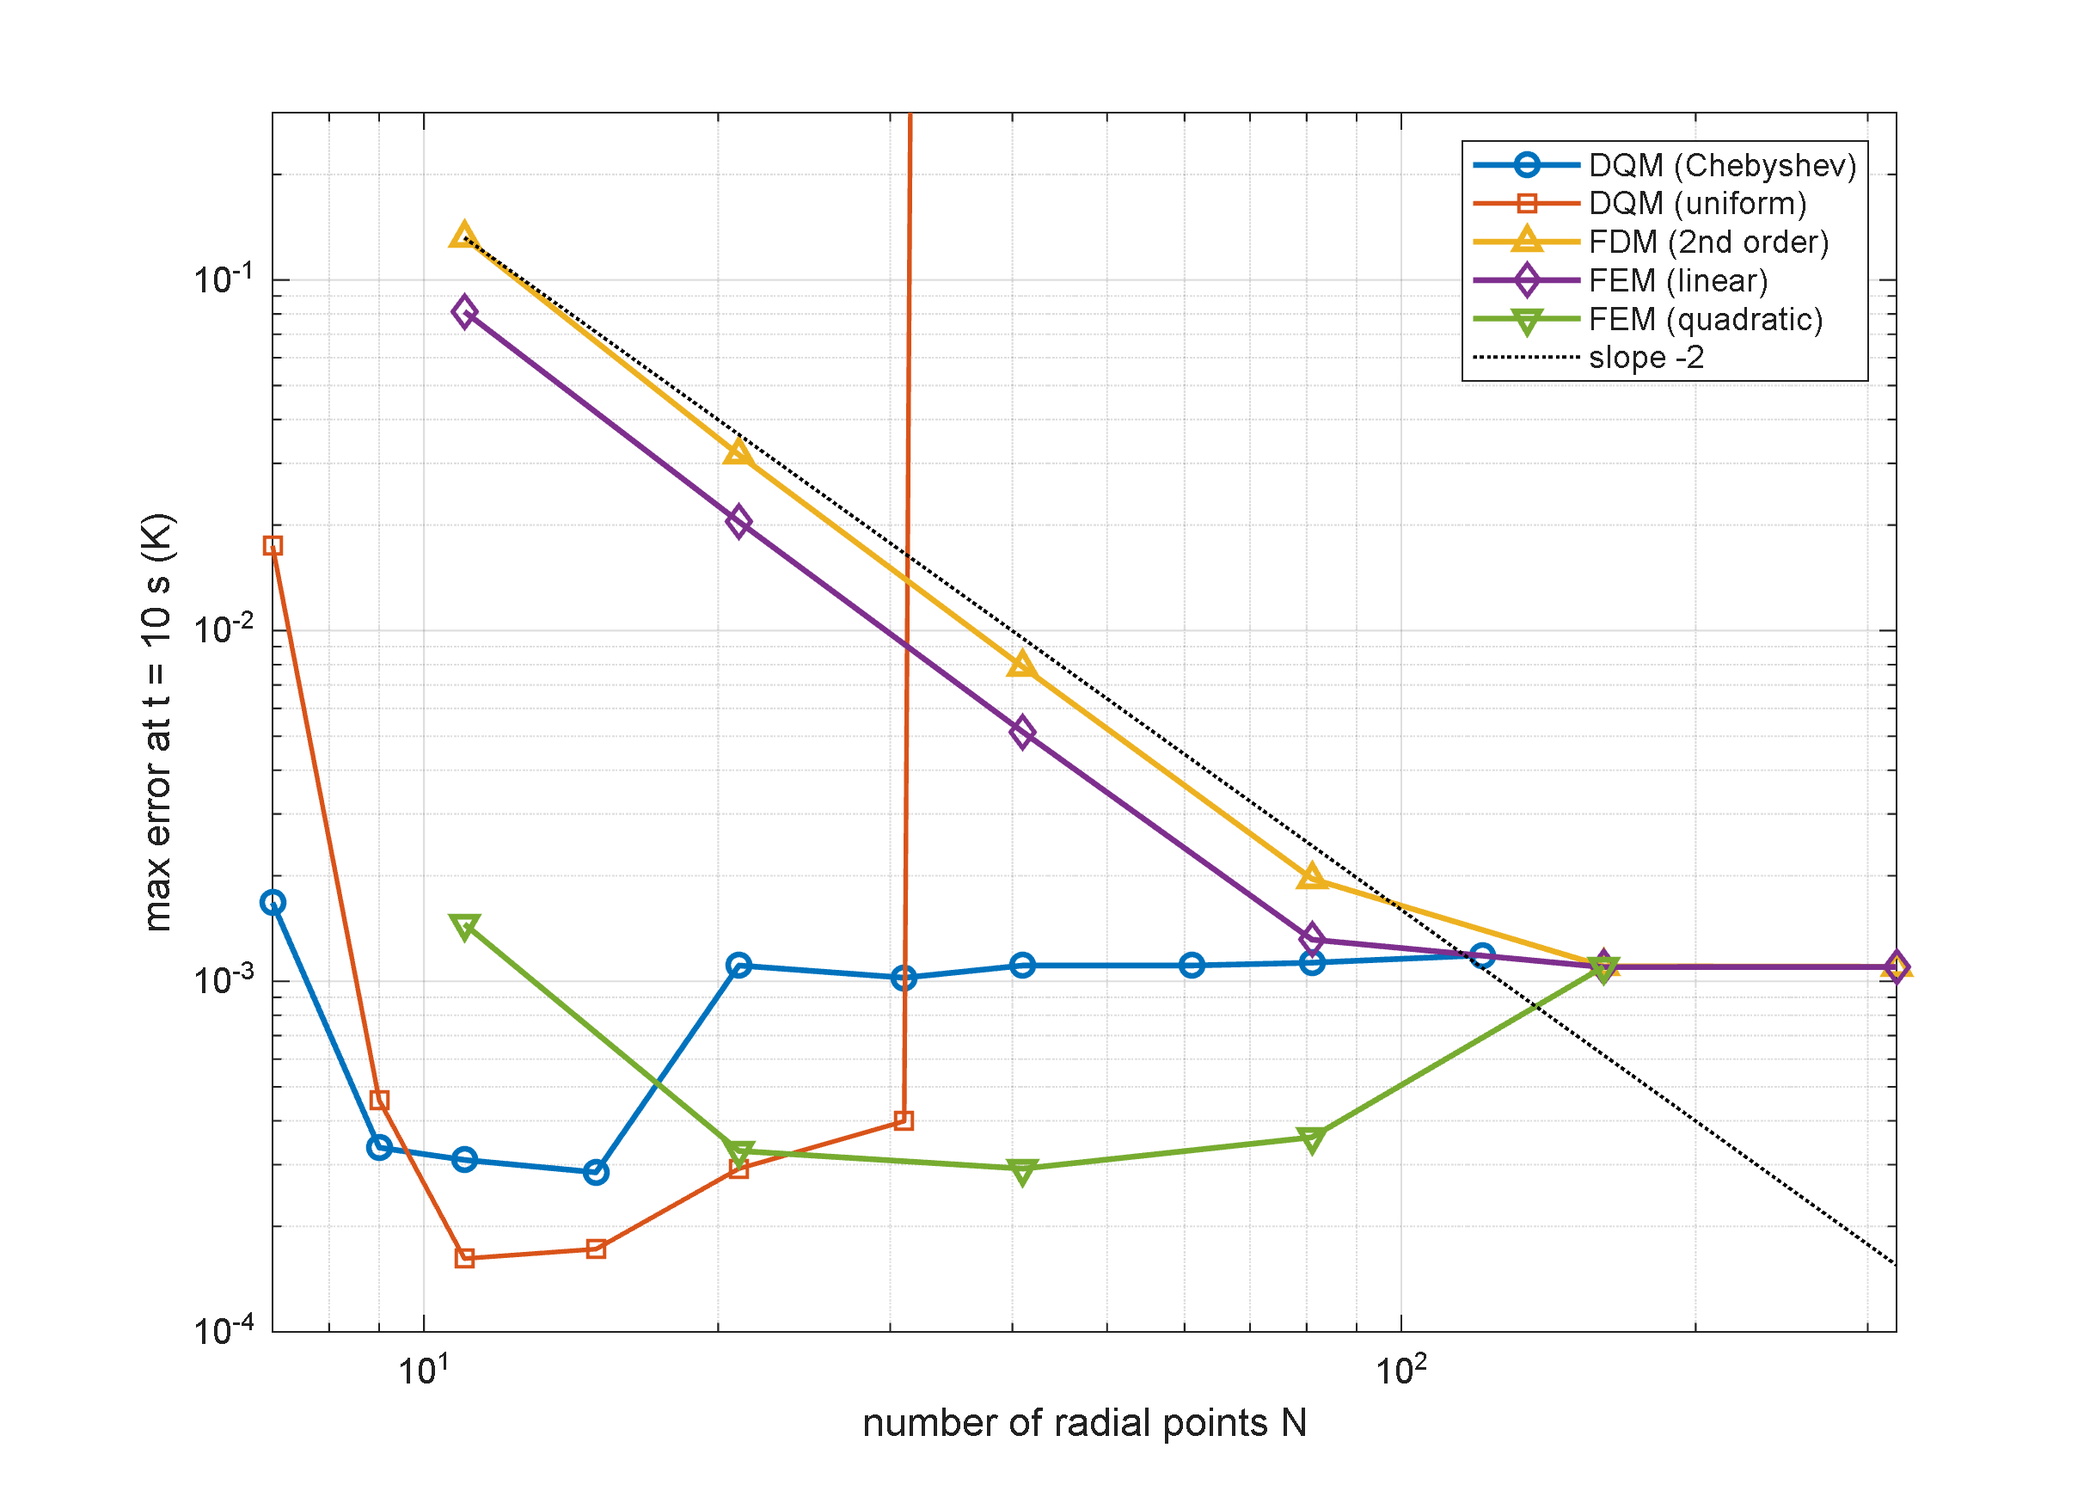
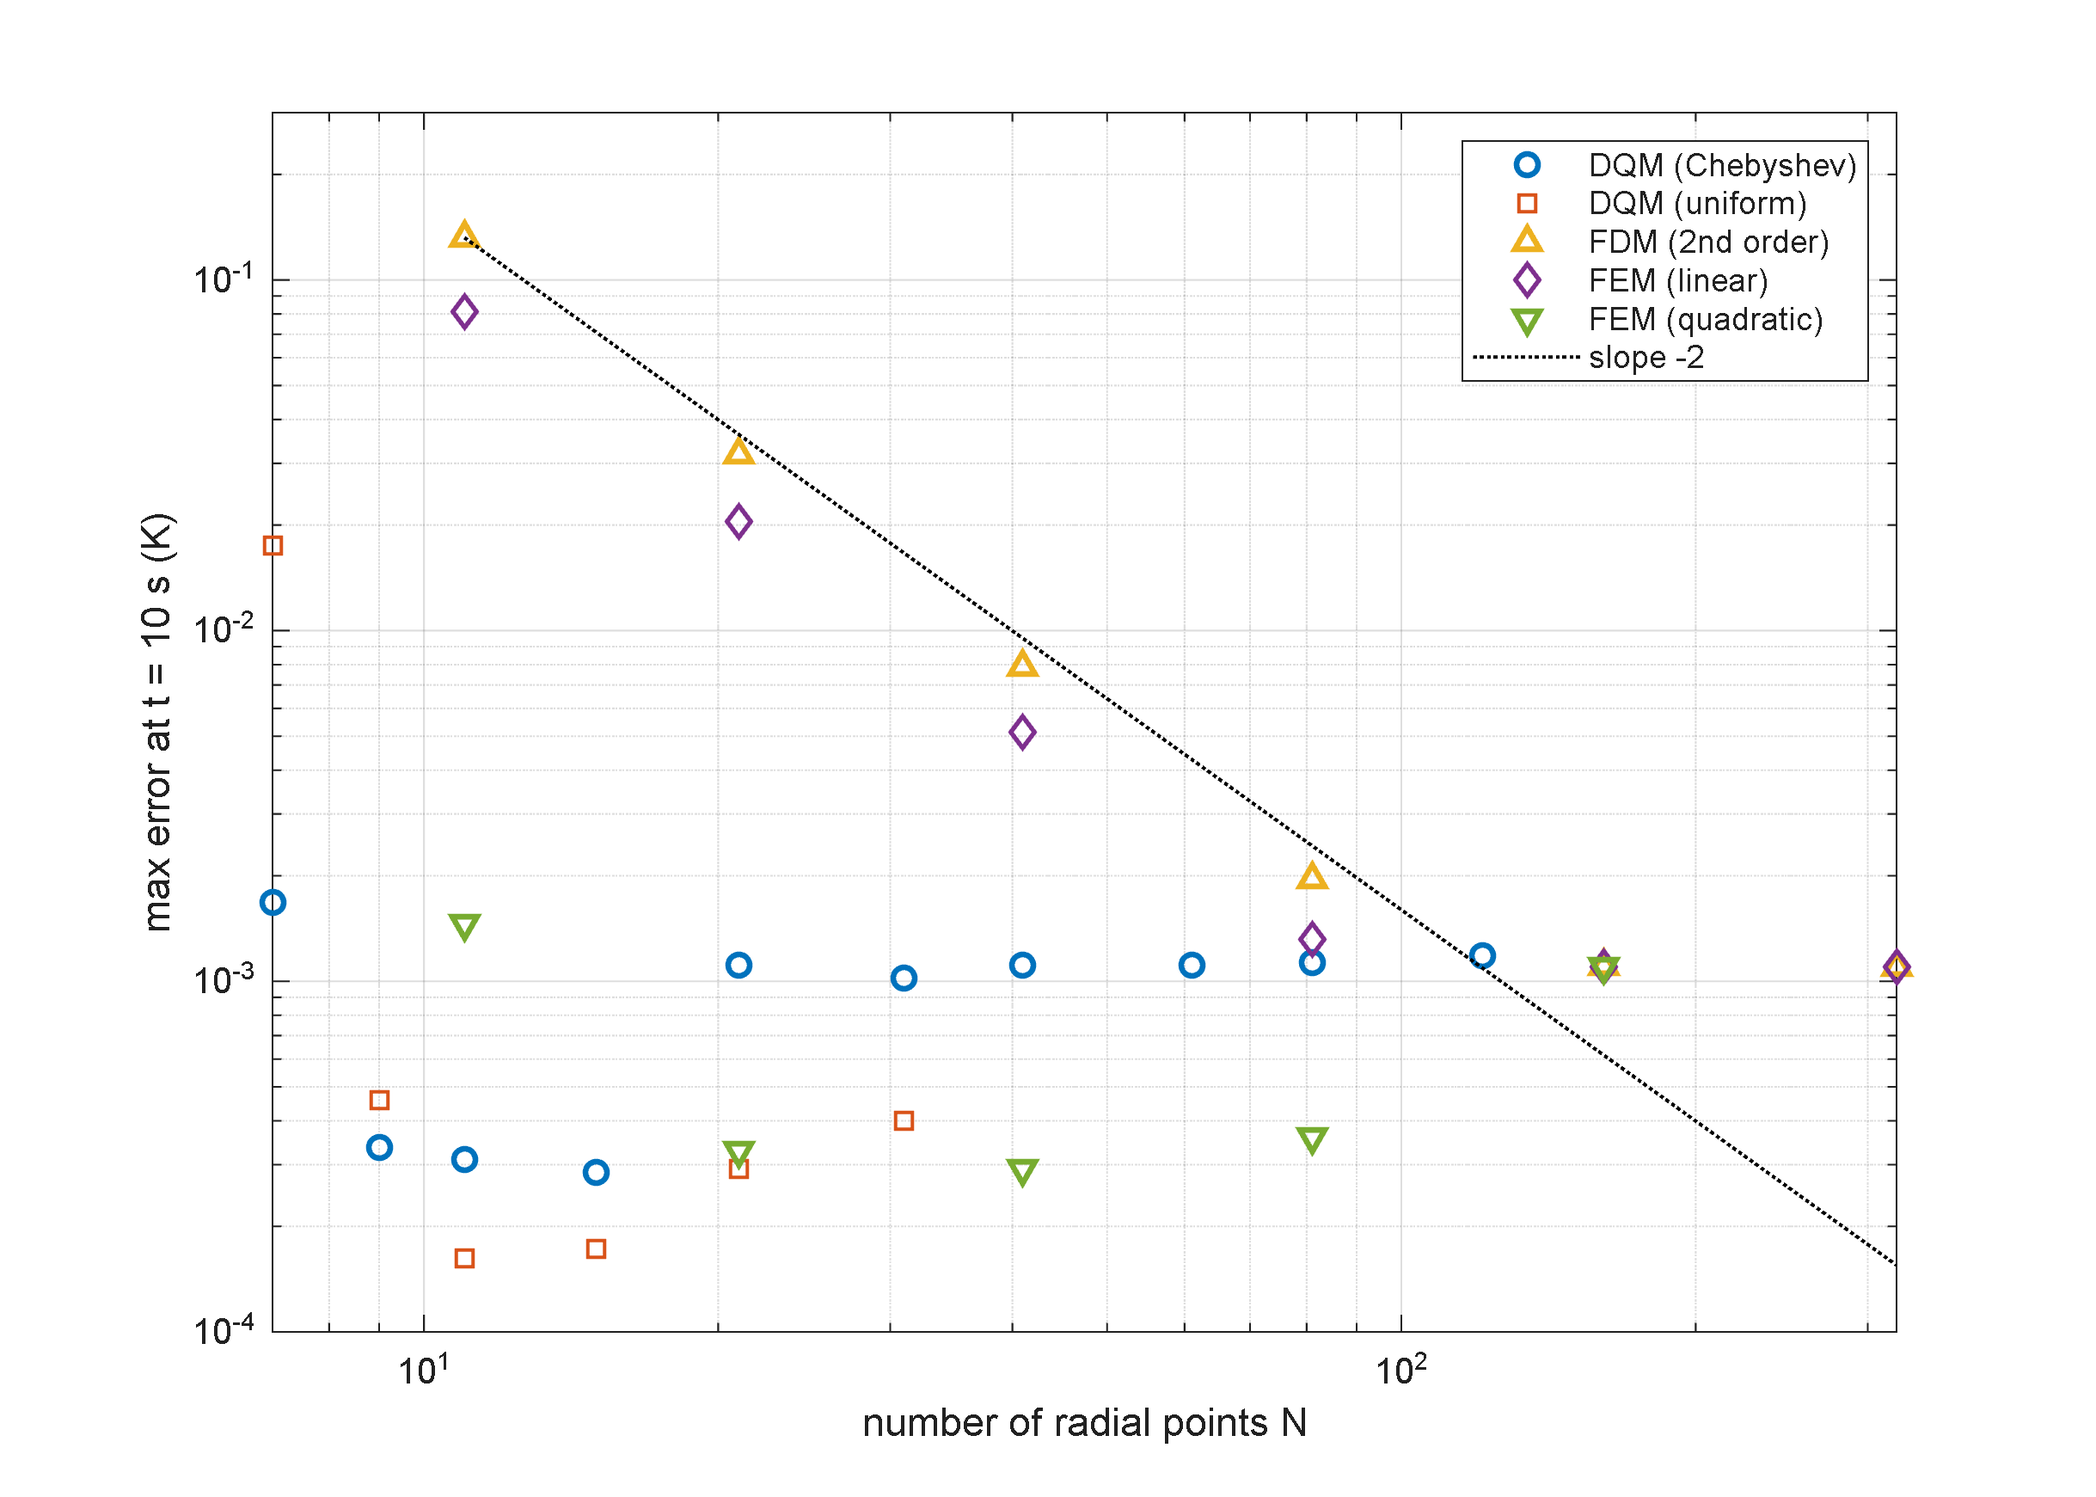
Add T2.5: markers only, no connecting lines
New revision (T2_4 kept frozen), styling only, no numeric change:
removed the connecting lines from all data series, leaving hollow
markers only (slope-2 dotted reference line kept).

diff --git a/claude/code/extensions/claude_T2_5_spatial_methods.m b/claude/code/extensions/claude_T2_5_spatial_methods.m
@@ -1,0 +1,239 @@
+%% ========================================================================
+%  claude_T2_5_spatial_methods.m — SPATIAL DISCRETIZATION COMPARISON (T2.5)
+%  ------------------------------------------------------------------------
+%  Revision of claude_T2_4_spatial_methods.m (T2_4 kept frozen). Change
+%  (author request, figure styling only — no numeric change):
+%    + connecting lines removed from the data series — markers only
+%      (slope-2 dotted reference line kept).
+%  Everything else is unchanged: same DQM node sweep extended to N=201,
+%  same exact Bessel-series reference, same Newmark time march (dt = 0.01 s)
+%  so the measured error at t = 10 s is the SPATIAL error of each method.
+%  Output goes to results_extensions\ (method/theory comparisons are kept
+%  separate from the parametric campaign for the results chapter); this
+%  revision's output supersedes T2_4's on the same filenames.
+%  ========================================================================
+clearvars; clc; close all;
+
+k_th=50; rho_th=8000; c_th=500; kappa=k_th/(rho_th*c_th);
+Ri=0.08; Ro=0.1; hconv=2000; th0=200; t0r=5;
+t_end=10; dtt=0.01; Ntt=round(t_end/dtt);
+
+%% ---- exact solution ----
+b_c = -hconv/(k_th/Ro + hconv*log(Ro/Ri));  a_c = 1 - b_c*log(Ri);
+psi  = @(r) a_c + b_c*log(r);
+geig = @(l) -k_th*l.*(besselj(1,l*Ro).*bessely(0,l*Ri) - bessely(1,l*Ro).*besselj(0,l*Ri)) ...
+          + hconv*(besselj(0,l*Ro).*bessely(0,l*Ri) - bessely(0,l*Ro).*besselj(0,l*Ri));
+Rfun = @(l,r) besselj(0,l*r).*bessely(0,l*Ri) - bessely(0,l*r).*besselj(0,l*Ri);
+lam=zeros(60,1); nf=0; lg=linspace(1,40000,400000); gv=geig(lg);
+for i=1:numel(lg)-1
+    if nf>=60, break; end
+    if gv(i)*gv(i+1)<0, nf=nf+1; lam(nf)=fzero(geig,[lg(i),lg(i+1)]); end
+end
+lam=lam(1:nf); cn=zeros(nf,1);
+for n=1:nf
+    num=integral(@(r) psi(r).*Rfun(lam(n),r).*r, Ri,Ro,'AbsTol',1e-12,'RelTol',1e-10);
+    den=integral(@(r) Rfun(lam(n),r).^2.*r,      Ri,Ro,'AbsTol',1e-12,'RelTol',1e-10);
+    cn(n)=num/den;
+end
+bD=1/t0r;
+th_exact = @(r,t) th0*(1-exp(-t/t0r)).*psi(r) - ...
+    sum((cn.*Rfun(lam,r)).*(th0*bD*(exp(-bD*t)-exp(-lam.^2*kappa*t))./(lam.^2*kappa-bD)),1);
+
+% physical parameter bundle for the 1-D solver helpers (script-local
+% functions do NOT share the script workspace — pass everything explicitly)
+P = struct('k',k_th,'rhoc',rho_th*c_th,'h',hconv,'th0',th0,'t0r',t0r, ...
+           'dtt',dtt,'Ntt',Ntt,'Ri',Ri,'Ro',Ro);
+
+%% ---- sweeps -------------------------------------------------------------
+fprintf('===== T2.5: SPATIAL METHOD CONVERGENCE incl. FEM (error at t=10 s) =====\n');
+Ns_dqm = [7 9 11 15 21 31 41 61 81 121 161 201];
+err_dqm = nan(size(Ns_dqm)); err_dqu = err_dqm;
+for q = 1:numel(Ns_dqm)
+    N = Ns_dqm(q);
+    % Global-polynomial DQM differentiation matrices become ill-conditioned
+    % at high N (esp. uniform nodes, Runge-type blow-up); guard with
+    % try/catch so one bad N doesn't abort the whole sweep — a failed/NaN
+    % point is itself the informative result (method breaks down there).
+    try
+        rC = Ri + (Ro-Ri)/2*(1-cos(pi*(0:N-1)/(N-1)));  rC = rC(:);   % Chebyshev
+        thxC = arrayfun(@(rr) th_exact(rr, t_end), rC(:).');
+        [A1,A2] = dqw(rC);      err_dqm(q) = run1d(rC, A1, A2, P, thxC);
+    catch ME
+        fprintf('DQM  N=%3d : cheb FAILED (%s)\n', N, ME.message);
+    end
+    try
+        rU = linspace(Ri,Ro,N).';                                     % uniform
+        thxU = arrayfun(@(rr) th_exact(rr, t_end), rU(:).');
+        [B1,B2] = dqw(rU);      err_dqu(q) = run1d(rU, B1, B2, P, thxU);
+    catch ME
+        fprintf('DQM  N=%3d : uniform FAILED (%s)\n', N, ME.message);
+    end
+    fprintf('DQM  N=%3d : cheb err=%.3e   uniform err=%.3e\n', N, err_dqm(q), err_dqu(q));
+end
+Ns_fdm = [11 21 41 81 161 321];
+err_fdm = zeros(size(Ns_fdm));
+for q = 1:numel(Ns_fdm)
+    N = Ns_fdm(q);
+    r = linspace(Ri,Ro,N).';  h = r(2)-r(1);
+    D1 = zeros(N); D2 = zeros(N);
+    for i = 2:N-1
+        D1(i,i-1)=-1/(2*h); D1(i,i+1)=1/(2*h);
+        D2(i,i-1)=1/h^2; D2(i,i)=-2/h^2; D2(i,i+1)=1/h^2;
+    end
+    D1(1,1:3)=[-3 4 -1]/(2*h);  D1(N,N-2:N)=[1 -4 3]/(2*h);   % one-sided
+    thxF = arrayfun(@(rr) th_exact(rr, t_end), r(:).');
+    err_fdm(q) = run1d(r, D1, D2, P, thxF);
+    fprintf('FDM  N=%3d : err=%.3e\n', N, err_fdm(q));
+end
+
+% ---- NEW: FEM sweeps -----------------------------------------------------
+Ns_fe1 = [11 21 41 81 161 321];              % linear elements (N-1 elements)
+err_fe1 = zeros(size(Ns_fe1));
+for q = 1:numel(Ns_fe1)
+    N = Ns_fe1(q);
+    r = linspace(Ri,Ro,N).';
+    [Kf,Cf] = femmat(r, 1, P);
+    thxE = arrayfun(@(rr) th_exact(rr, t_end), r(:).');
+    err_fe1(q) = run1d_mat(Kf, Cf, P, thxE);
+    fprintf('FEM1 N=%3d : err=%.3e\n', N, err_fe1(q));
+end
+Ns_fe2 = [11 21 41 81 161];                  % quadratic (odd N, (N-1)/2 elems)
+err_fe2 = zeros(size(Ns_fe2));
+for q = 1:numel(Ns_fe2)
+    N = Ns_fe2(q);
+    r = linspace(Ri,Ro,N).';
+    [Kf,Cf] = femmat(r, 2, P);
+    thxE = arrayfun(@(rr) th_exact(rr, t_end), r(:).');
+    err_fe2(q) = run1d_mat(Kf, Cf, P, thxE);
+    fprintf('FEM2 N=%3d : err=%.3e\n', N, err_fe2(q));
+end
+
+%% ---- figure -------------------------------------------------------------
+outdir='results_extensions';  fdir=fullfile(outdir,'figures');
+if ~exist(fdir,'dir'), mkdir(fdir); end
+fig = figure('Position',[100 100 780 560],'Color','w');
+% "first edition" palette (MATLAB default color order): blue/red/yellow/purple/green
+cBlue=[0 0.4470 0.7410]; cRed=[0.8500 0.3250 0.0980]; cYel=[0.9290 0.6940 0.1250];
+cPur=[0.4940 0.1840 0.5560]; cGrn=[0.4660 0.6740 0.1880];
+loglog(Ns_dqm, err_dqm, 'o', 'Color',cBlue,'LineWidth',1.6); hold on;
+loglog(Ns_dqm, err_dqu, 's', 'Color',cRed, 'LineWidth',1.3);
+loglog(Ns_fdm, err_fdm, '^', 'Color',cYel, 'LineWidth',1.6);
+loglog(Ns_fe1, err_fe1, 'd', 'Color',cPur, 'LineWidth',1.6);
+loglog(Ns_fe2, err_fe2, 'v', 'Color',cGrn, 'LineWidth',1.6);
+loglog(Ns_fdm, err_fdm(1)*(Ns_fdm(1)./Ns_fdm).^2, 'k:', 'LineWidth',1);
+xlabel('number of radial points N'); ylabel('max error at t = 10 s (K)');
+legend('DQM (Chebyshev)','DQM (uniform)','FDM (2nd order)', ...
+       'FEM (linear)','FEM (quadratic)','slope -2','Location','northeast');
+grid on; box on;
+% cap the y-axis: uniform-node DQM diverges to ~1e47-1e52 beyond N=31
+% (global-polynomial ill-conditioning), which would otherwise flatten
+% every other well-behaved curve into an unreadable line at the bottom.
+ylim([1e-4 3e-1]);
+saveas(fig, fullfile(fdir,'T2_spatial_convergence.fig'));
+print(fig, fullfile(fdir,'T2_spatial_convergence.png'), '-dpng','-r300');
+T = table([Ns_dqm.'; Ns_dqm.'; Ns_fdm.'; Ns_fe1.'; Ns_fe2.'], ...
+    [err_dqm.'; err_dqu.'; err_fdm.'; err_fe1.'; err_fe2.'], ...
+    [repmat("DQM-cheb",numel(Ns_dqm),1); repmat("DQM-unif",numel(Ns_dqm),1); ...
+     repmat("FDM",numel(Ns_fdm),1); repmat("FEM-lin",numel(Ns_fe1),1); ...
+     repmat("FEM-quad",numel(Ns_fe2),1)], ...
+    'VariableNames', {'N','max_err_K','method'});
+writetable(T, fullfile(outdir,'T2_spatial_table.csv'));
+fprintf('Saved %s\\figures\\T2_spatial_convergence + T2_spatial_table.csv\n', outdir);
+
+%% ---- helpers ------------------------------------------------------------
+function err = run1d(r, D1, D2, P, thx)
+    % 1-D radial transient conduction with inner ramp + outer convection.
+    % (unchanged from claude_T2_spatial_methods.m)
+    N = numel(r);
+    K = zeros(N); Cm = zeros(N);
+    for i = 2:N-1
+        K(i,:) = -P.k*( D2(i,:) + D1(i,:)/r(i) );
+        Cm(i,i) = P.rhoc;
+    end
+    K(1,1) = 1;                                     % theta = ramp(t)
+    K(N,:) = P.k*D1(N,:);  K(N,N) = K(N,N) + P.h;   % convection
+    err = march(K, Cm, P, thx);
+end
+
+function err = run1d_mat(K, Cm, P, thx)
+    % same Newmark march for a PRE-ASSEMBLED (weak-form) system.
+    % Inner Dirichlet row is already the constraint row K(1,:)=[1 0...0].
+    err = march(K, Cm, P, thx);
+end
+
+function err = march(K, Cm, P, thx)
+    N = size(K,1);
+    s_row = max(abs([K, (2/P.dtt)*Cm]),[],2); s_row(s_row==0)=1;
+    K = K./s_row; Cm = Cm./s_row; rs1 = 1/s_row(1);
+    a0=1/(0.25*P.dtt^2); a1=0.5/(0.25*P.dtt); a2=1/(0.25*P.dtt); a3=1;
+    a4=1; a5=0; a6=P.dtt*0.5; a7=P.dtt*0.5;
+    Keff = K + a1*Cm;                               % M = 0 (Fourier)
+    x=zeros(N,1); xd=x; xdd=x;
+    [Lf,Uf,pp] = lu(Keff,'vector');
+    for n = 1:P.Ntt
+        t = n*P.dtt;
+        F = zeros(N,1);  F(1) = P.th0*(1-exp(-t/P.t0r))*rs1;
+        rhs = F + Cm*(a1*x + a4*xd + a5*xdd);
+        xn = Uf\(Lf\rhs(pp));
+        xddn = a0*(xn-x) - a2*xd - a3*xdd;
+        xd = xd + a6*xdd + a7*xddn;  x = xn;  xdd = xddn;
+    end
+    err = max(abs(x(2:end-1).' - thx(2:end-1)));
+end
+
+function [K, Cm] = femmat(r, order, P)
+    % Galerkin FEM for  rho*c dth/dt - k (th'' + th'/r) = 0  on [Ri,Ro],
+    % weak form with cylindrical weight r:
+    %   K_ij  = int k Ni' Nj' r dr   (+ h*Ro at outer node)
+    %   Cm_ij = int rho*c Ni Nj r dr
+    % order 1: 2-node linear elements; order 2: 3-node quadratic (N odd).
+    N = numel(r);
+    K = zeros(N); Cm = zeros(N);
+    if order == 1
+        for e = 1:N-1
+            r1=r(e); r2=r(e+1); Le=r2-r1; idx=[e e+1];
+            Ke = P.k*(r1+r2)/(2*Le)*[1 -1; -1 1];
+            Ce = P.rhoc*Le/12*[3*r1+r2, r1+r2; r1+r2, r1+3*r2];
+            K(idx,idx)  = K(idx,idx)  + Ke;
+            Cm(idx,idx) = Cm(idx,idx) + Ce;
+        end
+    else
+        assert(mod(N,2)==1, 'quadratic FEM needs odd N');
+        % 3-point Gauss (exact for the degree-5 integrands here)
+        gp = [-sqrt(3/5) 0 sqrt(3/5)];  gw = [5/9 8/9 5/9];
+        for e = 1:(N-1)/2
+            idx = 2*e-1 : 2*e+1;  re = r(idx);  Le = re(3)-re(1);
+            Ke = zeros(3); Ce = zeros(3);
+            for g = 1:3
+                xi = gp(g);
+                Nsh  = [xi*(xi-1)/2, 1-xi^2, xi*(xi+1)/2];
+                dNxi = [xi-1/2,      -2*xi,  xi+1/2];
+                rg   = re(1) + (xi+1)*Le/2;         % equally spaced nodes
+                dNdr = dNxi*(2/Le);
+                Ke = Ke + gw(g)*P.k    *(dNdr.'*dNdr)*rg*(Le/2);
+                Ce = Ce + gw(g)*P.rhoc *(Nsh.' *Nsh )*rg*(Le/2);
+            end
+            K(idx,idx)  = K(idx,idx)  + Ke;
+            Cm(idx,idx) = Cm(idx,idx) + Ce;
+        end
+    end
+    K(N,N) = K(N,N) + P.h*P.Ro;        % natural convection BC (weak form)
+    K(1,:) = 0; K(1,1) = 1; Cm(1,:) = 0;   % inner Dirichlet constraint row
+end
+
+function [A,B] = dqw(x)
+    N = numel(x);  A = zeros(N);
+    for i = 1:N
+        for j = 1:N
+            if i~=j
+                num=1; den=1;
+                for k=1:N
+                    if k~=i && k~=j, num=num*(x(i)-x(k)); den=den*(x(j)-x(k)); end
+                end
+                A(i,j) = num/(den*(x(j)-x(i)));
+            end
+        end
+    end
+    for i=1:N, A(i,i) = -sum(A(i,:)); end
+    B = A*A;
+end

diff --git a/claude/REVISIONS.md b/claude/REVISIONS.md
@@ -28,7 +28,7 @@
 ### 2a. Methodological extension studies (T1/T2/T3, `code/extensions/`, output → `results_extensions/`)
 | Artifact | Current | History |
 |---|---|---|
-| `claude_T2*_spatial_methods.m` (spatial-discretization comparison: DQM vs FDM vs FEM) | **T2.4** | T2 (archived, superseded) → **T2_1** = added FEM (linear + quadratic Galerkin) alongside DQM/FDM, kept T2 frozen → **T2.2 (2026-08-22, minor)** = extended the DQM node sweep from `[7 9 11 15 21 31]` to `[7 9 11 15 21 31 41 61 81 121 161 201]` (author request: DQM curves stopped around N≈20–31 while FDM/FEM ran out to N=321, making the comparison look incomplete). Finding: **Chebyshev-node DQM stays well-conditioned and plateaus at the same temporal-error floor (~1.1e-3 K) as FDM/FEM all the way through N=121**, then fails (NaN) at N≥161 — evidence it converges over a comparable range, just like FEM. **Uniform-node DQM diverges catastrophically beyond N=31** (error ~1e47–1e52 at N=41/61, then NaN) — classic Runge-phenomenon ill-conditioning of a global polynomial basis on equally spaced nodes; annotated directly on the figure rather than left unexplained. y-axis capped at `[1e-4, 3e-1]` so the divergent uniform-DQM branch doesn't flatten the readable curves. `T2_1` kept frozen/untouched — the fix was made in a new `T2_2` copy per the revision-number rule. → **T2.3 (2026-08-24, minor, styling only)** = legend moved `southwest`→`northeast`; removed the "DQM (uniform) diverges for N≥41" text annotation (author request — also brings this figure in line with the project's no-floating-text plotting rule, §7, which this script had missed). No numeric change. `T2_2` kept frozen/untouched. → **T2.4 (2026-08-24, minor, styling only)** = line colors switched back to the "first edition" palette (blue/red/yellow/purple/green, MATLAB's default color order) that the original archived `T2` figure used, replacing T2_1–T2_3's blue/magenta/red/green/black scheme; slope-2 reference line solid→dotted; markers changed to hollow (no fill) instead of solid-filled (author requests). No numeric change. `T2_3` kept frozen/untouched. |
+| `claude_T2*_spatial_methods.m` (spatial-discretization comparison: DQM vs FDM vs FEM) | **T2.4** | T2 (archived, superseded) → **T2_1** = added FEM (linear + quadratic Galerkin) alongside DQM/FDM, kept T2 frozen → **T2.2 (2026-08-22, minor)** = extended the DQM node sweep from `[7 9 11 15 21 31]` to `[7 9 11 15 21 31 41 61 81 121 161 201]` (author request: DQM curves stopped around N≈20–31 while FDM/FEM ran out to N=321, making the comparison look incomplete). Finding: **Chebyshev-node DQM stays well-conditioned and plateaus at the same temporal-error floor (~1.1e-3 K) as FDM/FEM all the way through N=121**, then fails (NaN) at N≥161 — evidence it converges over a comparable range, just like FEM. **Uniform-node DQM diverges catastrophically beyond N=31** (error ~1e47–1e52 at N=41/61, then NaN) — classic Runge-phenomenon ill-conditioning of a global polynomial basis on equally spaced nodes; annotated directly on the figure rather than left unexplained. y-axis capped at `[1e-4, 3e-1]` so the divergent uniform-DQM branch doesn't flatten the readable curves. `T2_1` kept frozen/untouched — the fix was made in a new `T2_2` copy per the revision-number rule. → **T2.3 (2026-08-24, minor, styling only)** = legend moved `southwest`→`northeast`; removed the "DQM (uniform) diverges for N≥41" text annotation (author request — also brings this figure in line with the project's no-floating-text plotting rule, §7, which this script had missed). No numeric change. `T2_2` kept frozen/untouched. → **T2.4 (2026-08-24, minor, styling only)** = line colors switched back to the "first edition" palette (blue/red/yellow/purple/green, MATLAB's default color order) that the original archived `T2` figure used, replacing T2_1–T2_3's blue/magenta/red/green/black scheme; slope-2 reference line solid→dotted; markers changed to hollow (no fill) instead of solid-filled (author requests). No numeric change. `T2_3` kept frozen/untouched. → **T2.5 (2026-08-24, minor, styling only)** = connecting lines removed from the data series — markers only (slope-2 dotted reference line kept) (author request). No numeric change. `T2_4` kept frozen/untouched. |
 
 
 ## 3. Quantity CATALOG (figure-selection tool)
